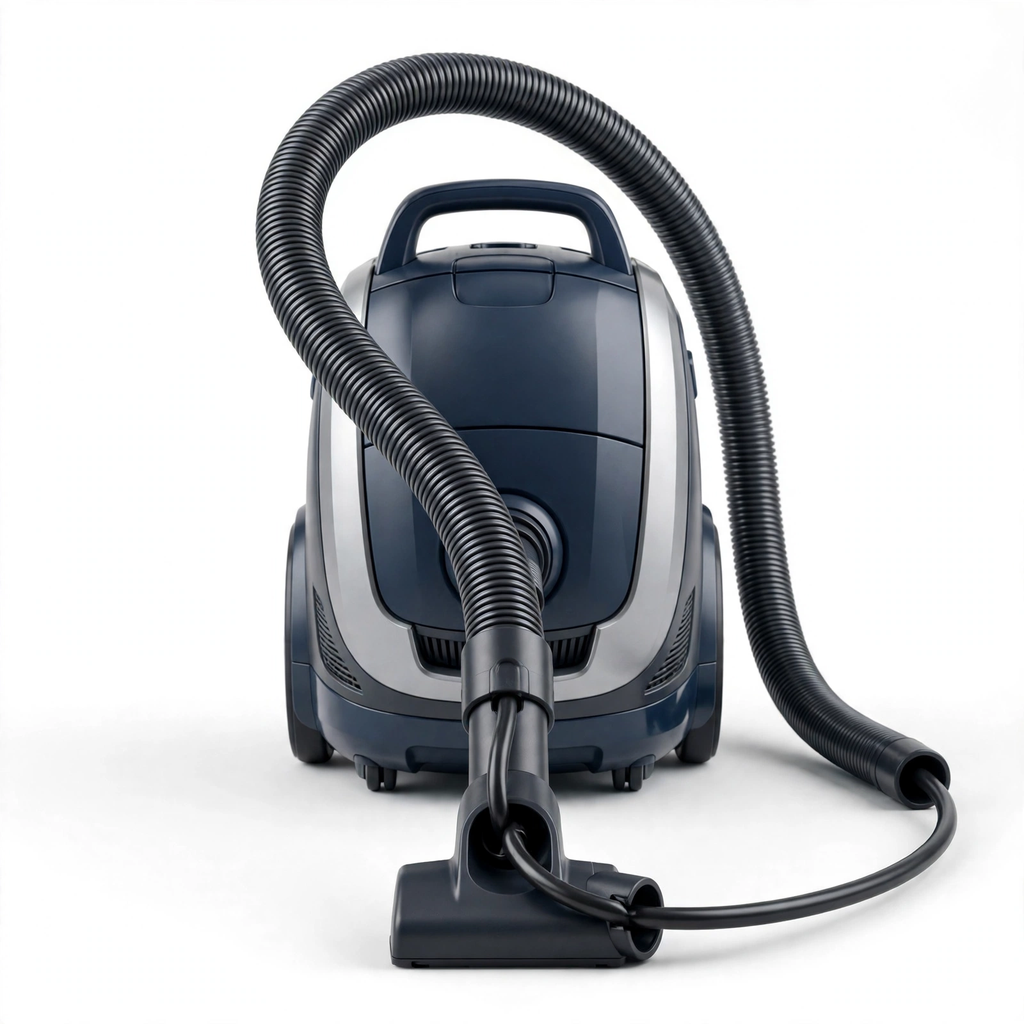
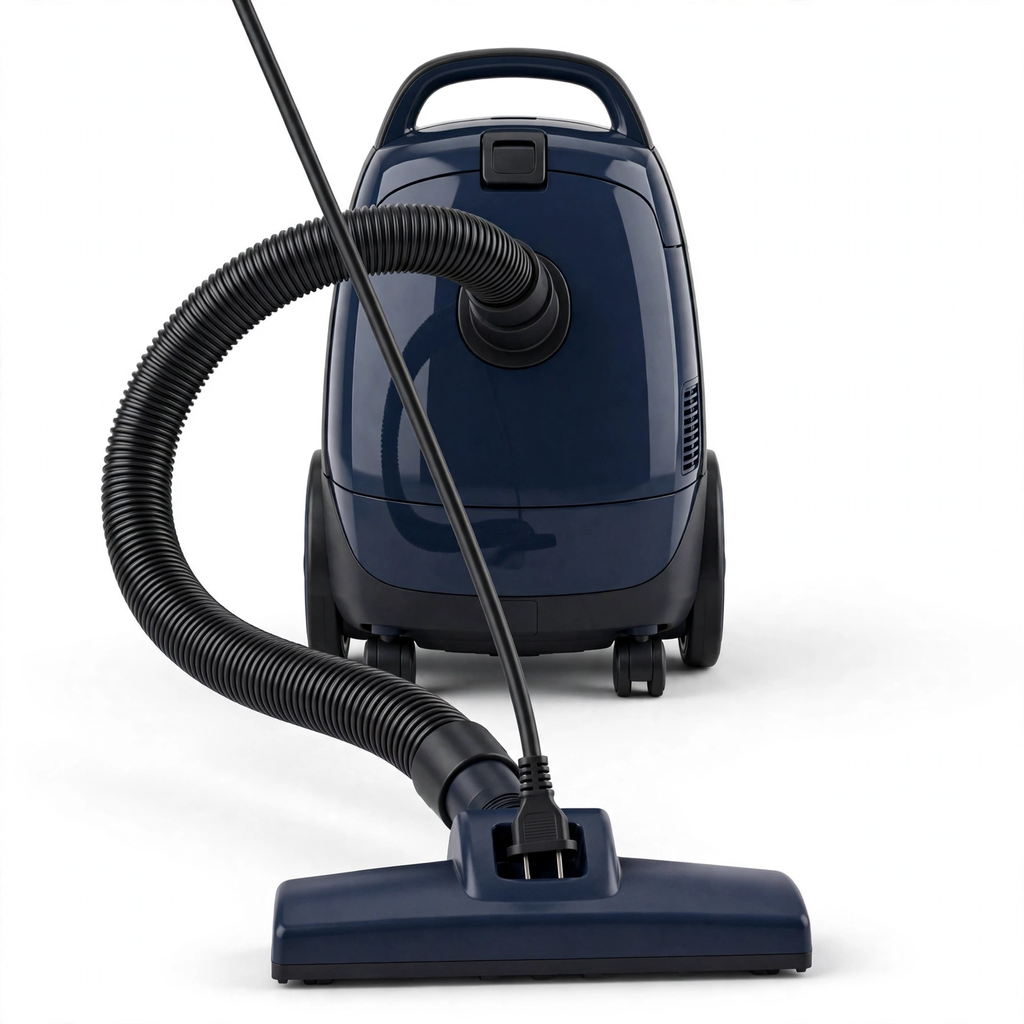
Add files via upload

diff --git a/README.md b/README.md
@@ -5,9 +5,7 @@
 # The Catalogue Photo of an Impossible Gadget
 
 A catalogue photograph of an impossible gadget: a canister vacuum cleaner
-sucking in its own power cord.
+sucking in its own power cord. The thick black cord runs taut in a diagonal
+across the frame, its plug end disappearing into the floor nozzle.
 
 Entry for https://make.fun/bounty/the-catalogue-photo-of-an-2-20261121-0341
-
-Run `python3 main.py` to copy `entry.png` to `$MAKEFUN_OUTPUT_DIR/entry.png`
-(default `/output`).
